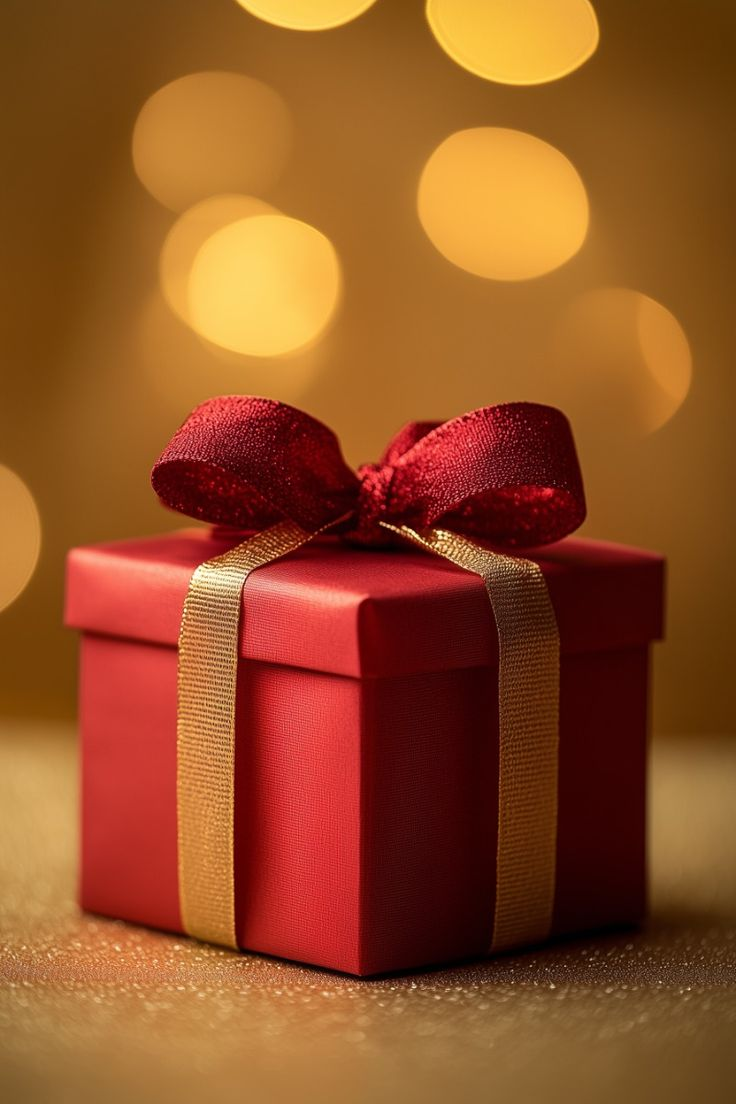
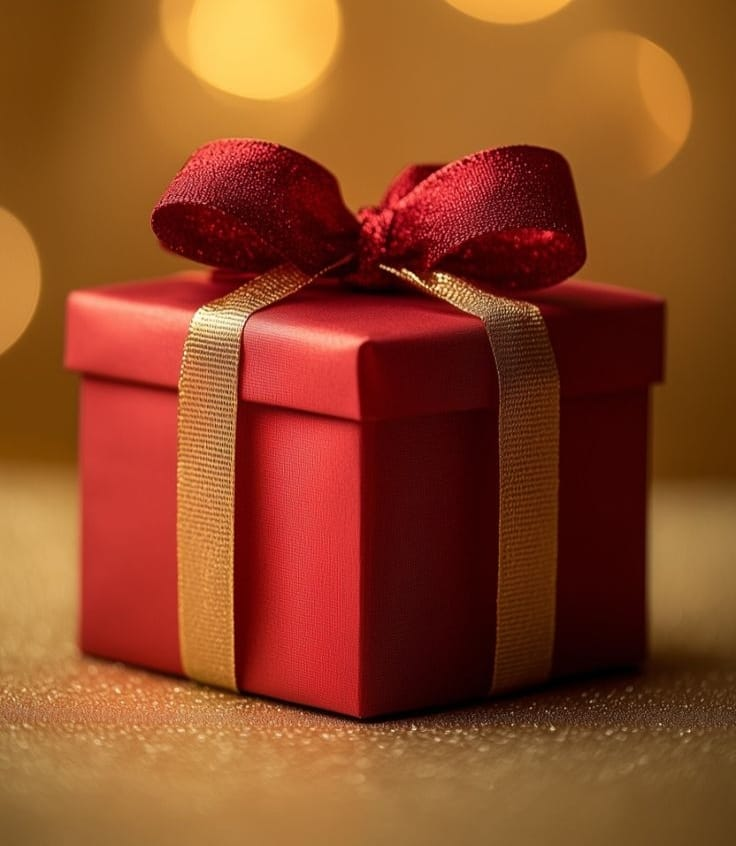
Replace gifting category image

diff --git a/index.html b/index.html
@@ -179,7 +179,7 @@ src="https://www.facebook.com/tr?id=1039053602005956&ev=PageView&noscript=1"
         <span>All Products</span>
       </a>
       <a href="shop.html?category=rakhi" class="category-card category-card--gifting">
-        <div class="category-circle"><img src="Assets/category/Gifting/Gifting.jpeg" alt="Gifting"></div>
+        <div class="category-circle"><img src="Assets/category/Gifting/Gifting.jpeg?v=2" alt="Gifting"></div>
         <span>Gifting</span>
       </a>
     </div>

diff --git a/PROJECT-STATE.md b/PROJECT-STATE.md
@@ -1,5 +1,5 @@
 # CaneCreme — Project State
-> Last updated: Session 128 cover category label and Gifting nav link (2026-07-28)
+> Last updated: Session 129 Gifting category image replacement (2026-07-28)
 > Rule: Every agent MUST update this file before context fills. No assumptions. No hallucinations. Only verified facts.
 
 ---
@@ -643,3 +643,4 @@ How to add product images correctly:
 | Session 126 | 2026-07-28 | User reported the Gifting gift box still was not fully visible. Root cause was the Gifting image padding increasing the rendered image beyond its thumbnail frame, so the lower gift box could still clip inside the overflow-hidden category frame. Added `box-sizing: border-box` to the Gifting category image overrides on desktop and mobile and bumped homepage stylesheet cache bust from `css/style.css?v=23` to `v=24`. No Supabase/database changes. |
 | Session 127 | 2026-07-28 | User provided a reference for the homepage categories section: cream background, `Shop By Collection` heading, five rounded collection cards, square product photos, and labels below. Updated `index.html` title text from `Categories` to `Shop By Collection`, reordered Gifting after All Products to match the reference, and changed desktop/mobile category CSS from lime circular icons/overlay cards to cream rounded collection cards. Bumped homepage stylesheet cache bust from `css/style.css?v=24` to `v=25`. No Supabase/database changes. |
 | Session 128 | 2026-07-28 | User asked to write `Categories` at the top of the cover photo and add a Gifting button in the navigation bar next to Shop. Added a top-centered `.hero-cover-label` overlay inside the homepage hero cover frame, added a top-level `Gifting` nav link pointing to `shop.html?category=rakhi` immediately after Shop, and bumped homepage stylesheet cache bust from `css/style.css?v=25` to `v=26`. No Supabase/database changes. |
+| Session 129 | 2026-07-28 | User asked to recheck `Assets/category/Gifting/Gifting.jpeg` and replace the Gifting image from the category icon. Verified the local replacement image exists and is `736x846`, committed the modified `Gifting.jpeg` asset, and updated the homepage Gifting category image URL to `Assets/category/Gifting/Gifting.jpeg?v=2` so browsers fetch the refreshed gift-box photo instead of a cached old image. No Supabase/database changes. |
